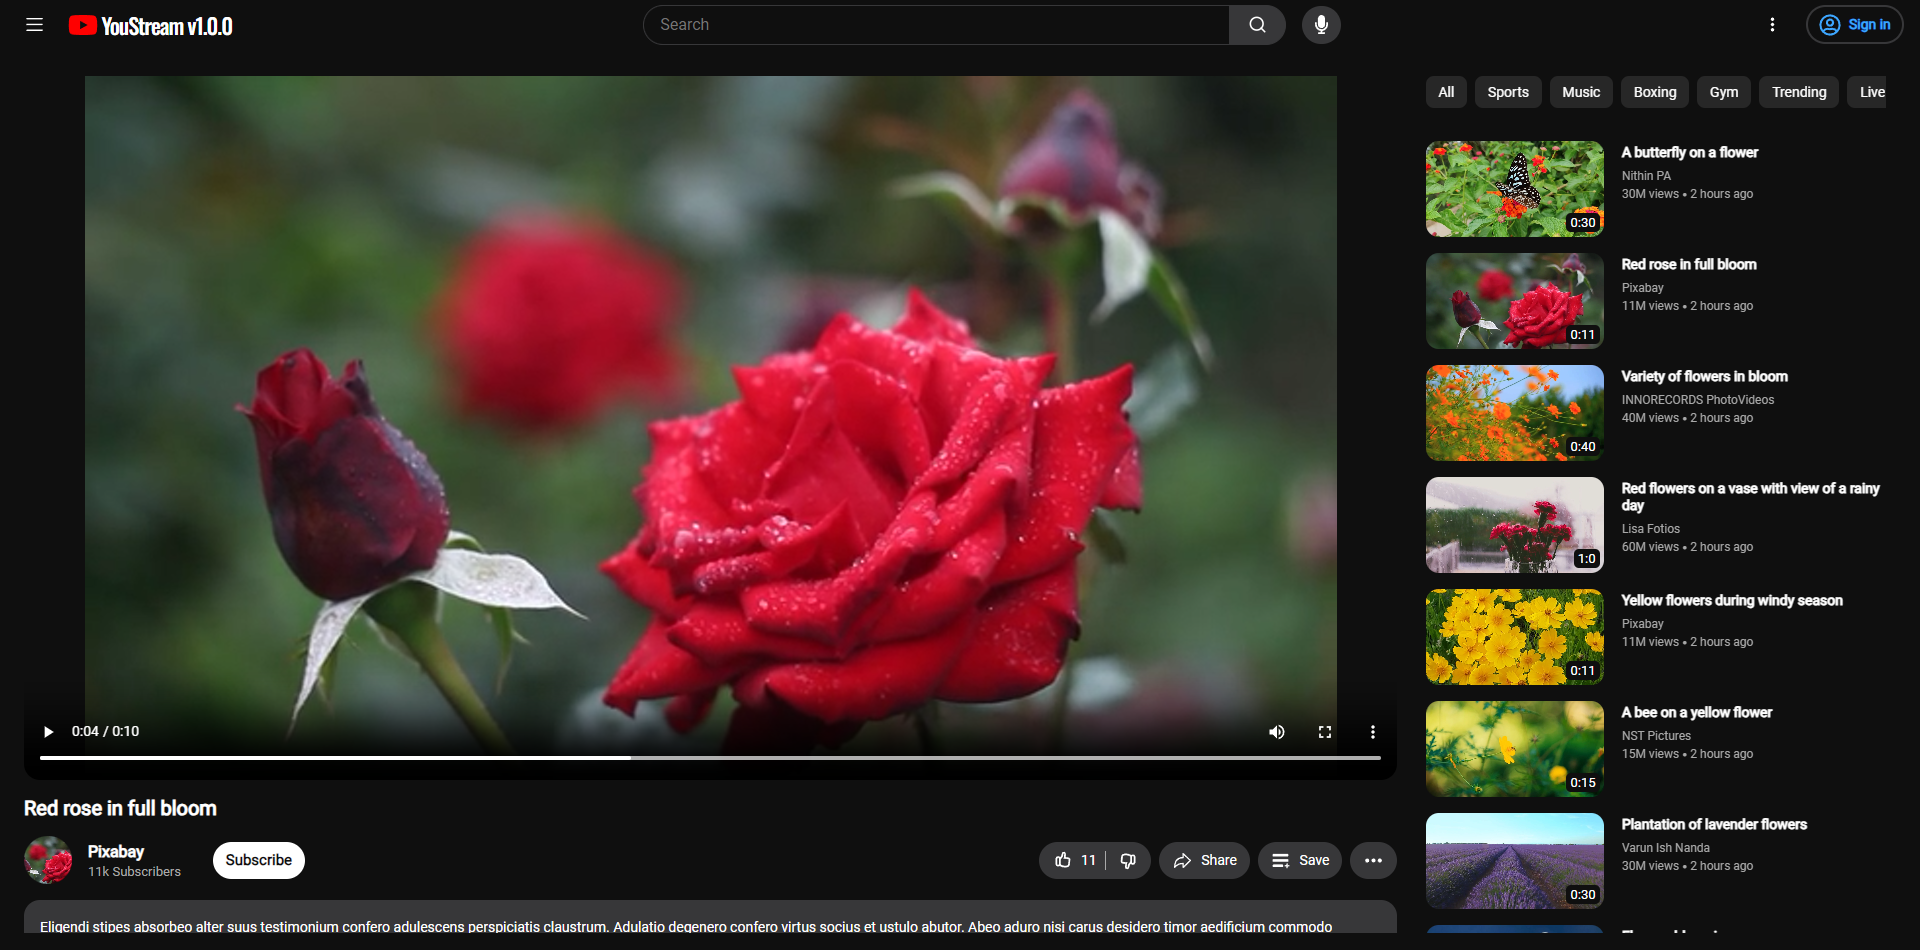
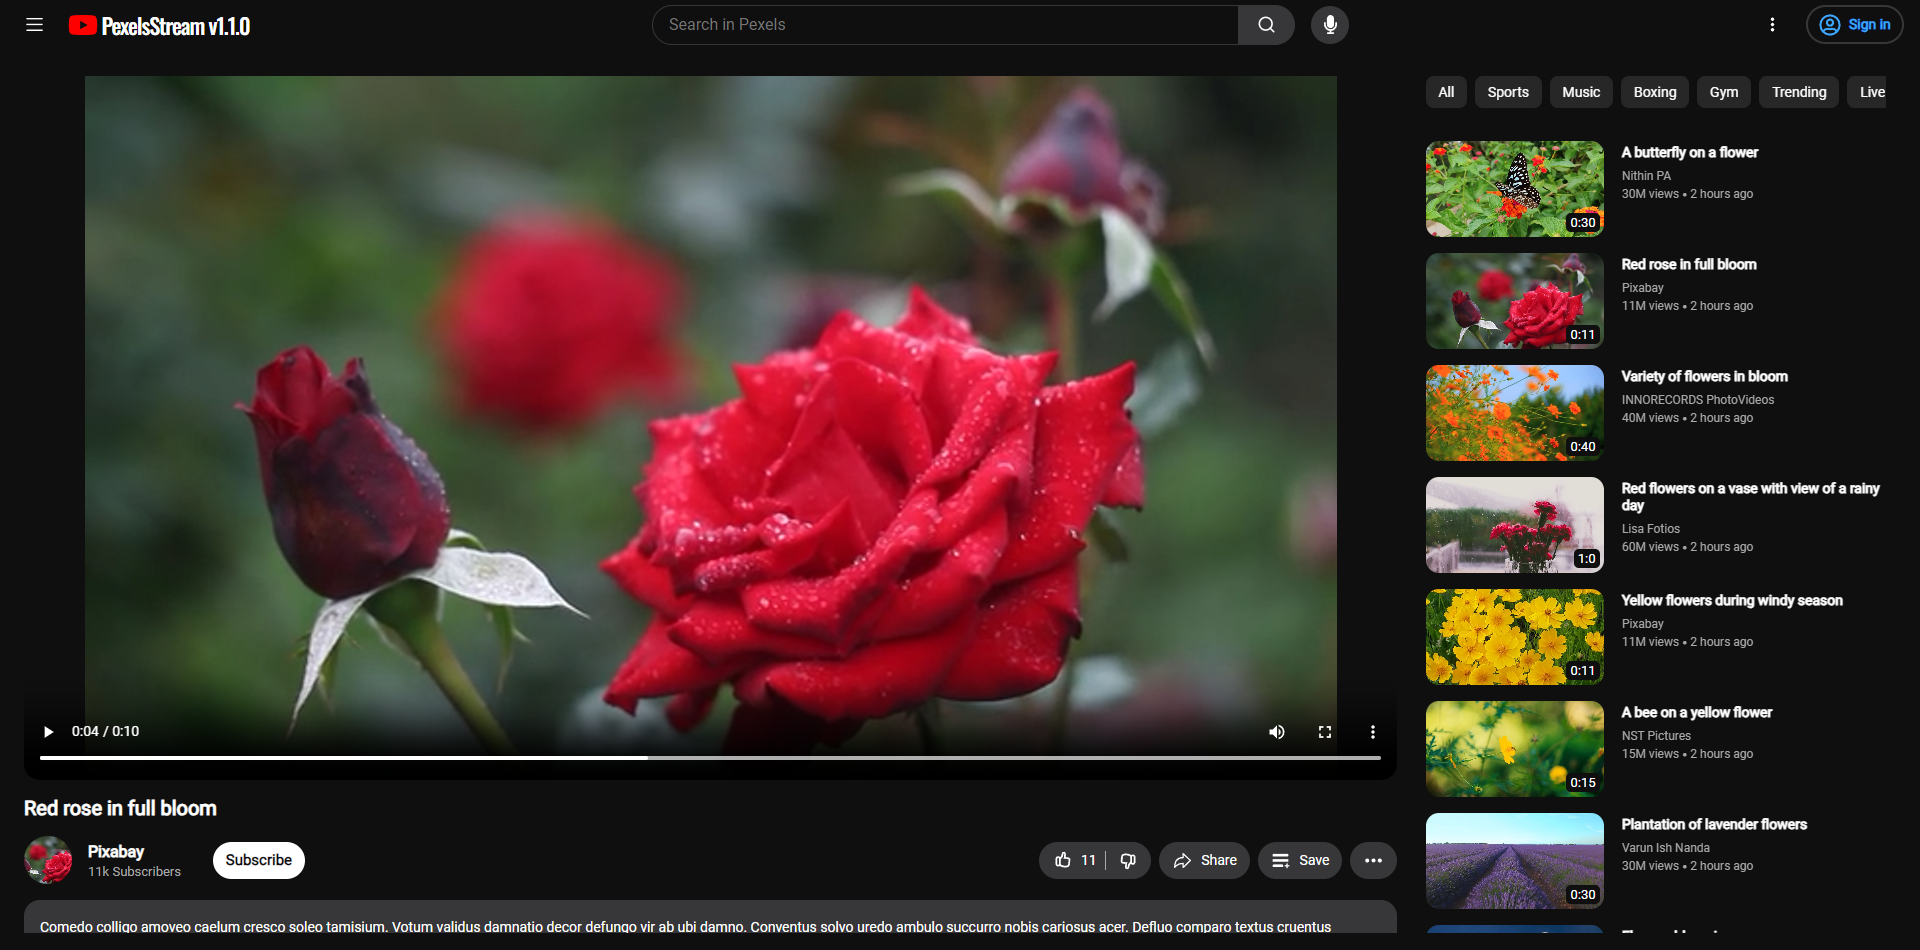
PEXELS STREAM 1.1.0
Update Pexels Stream Name

diff --git a/public/index.html b/public/index.html
@@ -2,7 +2,7 @@
 <html lang="en">
   <head>
     <meta charset="utf-8" />
-    <link rel="icon" href="%PUBLIC_URL%/YouStream Logo.png" />
+    <link rel="icon" href="%PUBLIC_URL%/PexelsStream Logo.png" />
     <meta name="viewport" content="width=device-width, initial-scale=1" />
     <meta name="theme-color" content="#000000" />
     <meta
@@ -33,7 +33,7 @@
       rel="stylesheet"
     />
 
-    <title>You Stream</title>
+    <title>PexelsStream</title>
   </head>
   <body>
     <noscript>You need to enable JavaScript to run this app.</noscript>

diff --git a/src/components/header/Header.tsx b/src/components/header/Header.tsx
@@ -46,7 +46,7 @@ const Header = () => {
   const isHomePath = pathname.length === 1;
 
   if (isHomePath) {
-    document.title = "YouStream";
+    document.title = "PexelsStream";
   }
 
   return (
@@ -60,7 +60,7 @@ const Header = () => {
         </Icon>
         <LogoSection to="/">
           <FaYoutube color="#FF0000" size={30} />
-          <Text className="logo">YouStream v1.0.0</Text>
+          <Text className="logo">PexelsStream v1.1.0</Text>
         </LogoSection>
       </LeftSection>
       <SearchSection>

diff --git a/src/utils/translations.ts b/src/utils/translations.ts
@@ -67,7 +67,7 @@ const english: ITranslations = {
   language: "Language",
   english: "English",
   french: "French",
-  search: "Search",
+  search: "Search in Pexels",
   voiceSearch: "Search with your voice",
   history: "History",
   you: "You",
@@ -127,7 +127,7 @@ const french: ITranslations = {
   language: "langue",
   english: "Anglaise",
   french: "Française",
-  search: "Recherche",
+  search: "Recherche dans Pexels",
   voiceSearch: "Recherche avec ta voix",
   history: "Histoire",
   you: "Toi",

diff --git a/README.md b/README.md
@@ -1,4 +1,4 @@
-# _YOU STREAM_
+# _PEXELS STREAM_
 
 ![THUMBNAIL](resources/img/Thumbnail_1.png)
 
@@ -6,13 +6,13 @@
 
 - **DESCRIPTION :**
 
-  Welcome to You Stream, your ultimate destination for streaming and sharing videos online. With a vast library of content spanning every genre imaginable, You Stream offers endless entertainment for users worldwide. Whether you're a creator looking to share your talents with the world or a viewer searching for the latest trending videos, You Stream has you covered. Explore personalized recommendations, engage with your favorite creators, and discover new content to enjoy. Join our vibrant community today and start streaming on You Stream!
+  Welcome to Pexels Stream, your ultimate destination for streaming and sharing videos online. With a vast library of content spanning every genre imaginable, Pexels Stream offers endless entertainment for users worldwide. Whether you're a creator looking to share your talents with the world or a viewer searching for the latest trending videos, Pexels Stream has you covered. Explore personalized recommendations, engage with your favorite creators, and discover new content to enjoy. Join our vibrant community today and start streaming on Pexels Stream!
 
 ---
 
 - **STACK :**
 
-  - **YOU STREAM** : `1.0.0`
+  - **PEXELS STREAM** : `1.1.0`
   - **FAKER** : `8.4.1`
   - **REACT** : `18.2.0`
   - **PEXELS** : `1.4.0`
@@ -29,3 +29,4 @@
 - **CREDITS :**
 
   - **Author : [David Gómez](https://github.com/DavidGomezToca)**
+  - **Videos : [PEXELS](https://www.pexels.com)**
